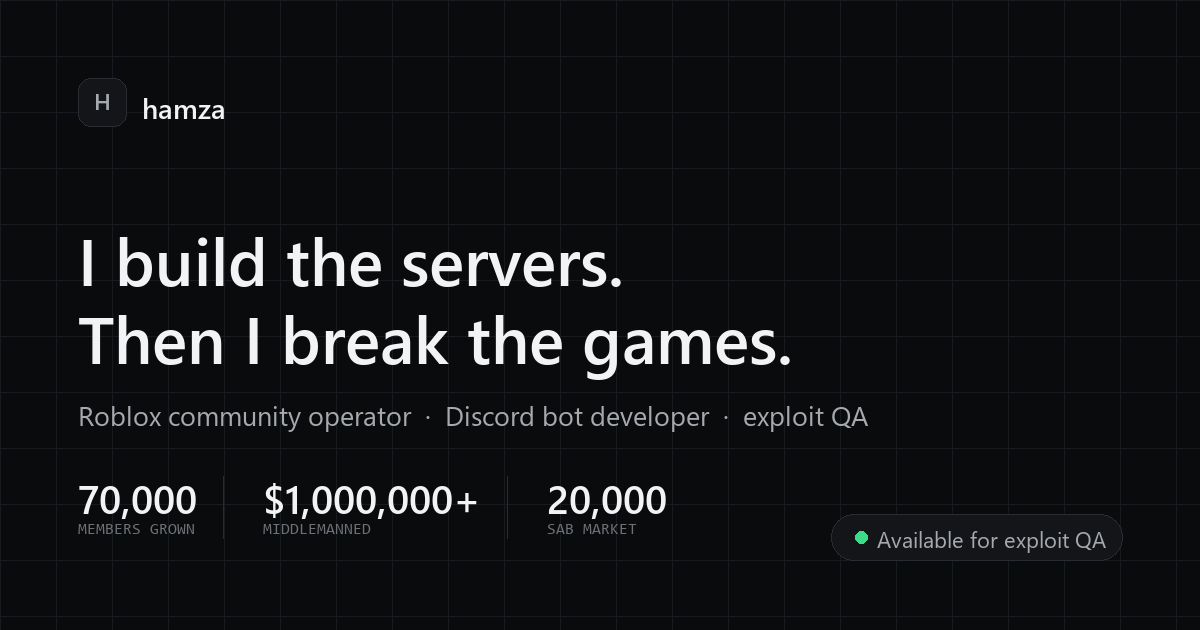
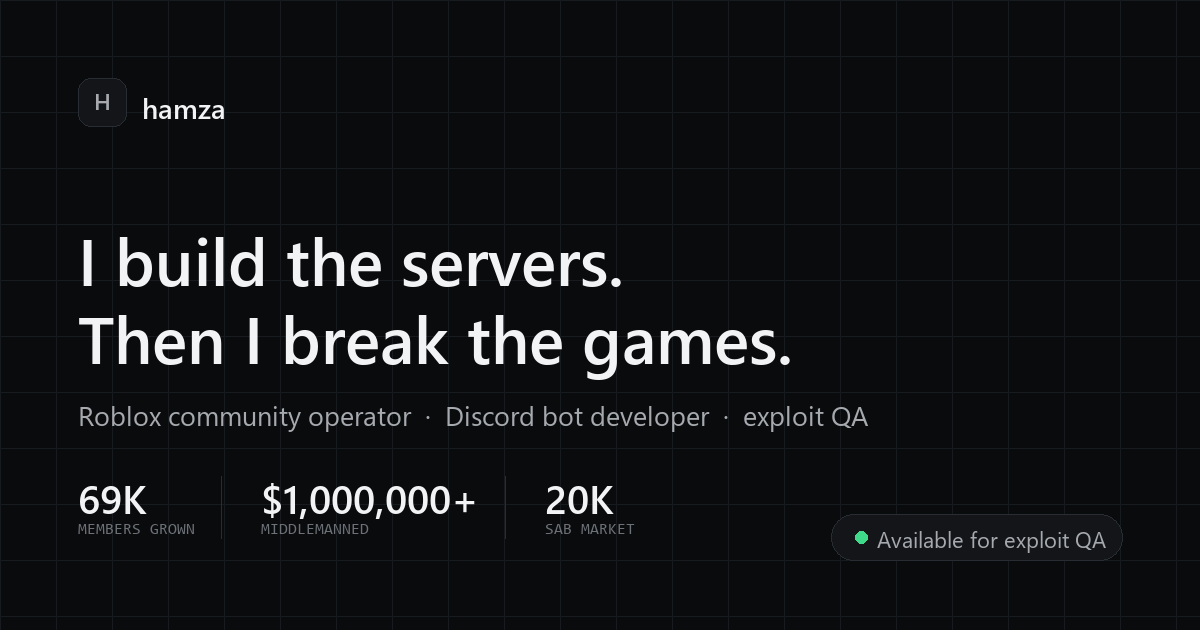
Live Discord member counts; rename to Ry's Middleman Services
Validating the invites against Discord's API showed discord.gg/sabmiddleman
resolves to "Ry's Middleman Services", not "SAB Middleman" as the page said.
Renamed so the page matches where the link actually lands.

The invite endpoint sends CORS headers, so member counts are now live in the
same way the Roblox player count is. Every figure on the page is real and
checkable. Static values stay in the HTML as the fallback.

- fetch uses no-store: Discord echoes the requesting origin in
  Access-Control-Allow-Origin instead of *, so a cached response fails CORS
  on a different origin
- countUp captured data-to before the fetch resolved and finished on the
  stale number; it now re-reads on the final frame
- applyCount writes the value even to tiles that have not scrolled into
  view, so nothing sits on a placeholder while the rest shows live data
- meta description reads "nearly 70,000" and the share card "69K", both
  durable as the count moves

Changed region(s): [[0.2158, 0.754, 0.4008, 0.8444], [0.4625, 0.754, 0.555, 0.8444], [0.0617, 0.754, 0.185, 0.8143]]

diff --git a/index.html b/index.html
@@ -4,7 +4,7 @@
 <meta charset="utf-8">
 <meta name="viewport" content="width=device-width, initial-scale=1, viewport-fit=cover">
 <title>hamza — exploit QA &amp; Roblox community operator</title>
-<meta name="description" content="Roblox community operator, Discord bot developer and exploit QA tester. Grew my own trading server to 70,000 members and middlemanned over $1,000,000 through it. Available for exploit QA on any game.">
+<meta name="description" content="Roblox community operator, Discord bot developer and exploit QA tester. Grew my own trading server to nearly 70,000 members and middlemanned over $1,000,000 through it. Available for exploit QA on any game.">
 <meta name="theme-color" content="#0A0B0D">
 <meta name="color-scheme" content="dark">
 <link rel="canonical" href="https://ohhamza.vercel.app/">
@@ -14,7 +14,7 @@
 <meta property="og:site_name" content="hamza">
 <meta property="og:url" content="https://ohhamza.vercel.app/">
 <meta property="og:title" content="hamza — exploit QA &amp; Roblox community operator">
-<meta property="og:description" content="Roblox community operator, Discord bot developer and exploit QA tester. Grew my own trading server to 70,000 members and middlemanned over $1,000,000 through it. Available for exploit QA on any game.">
+<meta property="og:description" content="Roblox community operator, Discord bot developer and exploit QA tester. Grew my own trading server to nearly 70,000 members and middlemanned over $1,000,000 through it. Available for exploit QA on any game.">
 <meta property="og:image" content="https://ohhamza.vercel.app/og.png">
 <meta property="og:image:width" content="1200">
 <meta property="og:image:height" content="630">
@@ -22,7 +22,7 @@
 
 <meta name="twitter:card" content="summary_large_image">
 <meta name="twitter:title" content="hamza — exploit QA &amp; Roblox community operator">
-<meta name="twitter:description" content="Roblox community operator, Discord bot developer and exploit QA tester. Grew my own trading server to 70,000 members and middlemanned over $1,000,000 through it. Available for exploit QA on any game.">
+<meta name="twitter:description" content="Roblox community operator, Discord bot developer and exploit QA tester. Grew my own trading server to nearly 70,000 members and middlemanned over $1,000,000 through it. Available for exploit QA on any game.">
 <meta name="twitter:image" content="https://ohhamza.vercel.app/og.png">
 <link rel="preconnect" href="https://fonts.googleapis.com">
 <link rel="preconnect" href="https://fonts.gstatic.com" crossorigin>
@@ -396,7 +396,7 @@ html.js .stg.in > *:nth-child(6){transition-delay:.35s}
       <h1 class="up" style="animation-delay:.13s">I build the servers. Then I break the games.</h1>
 
       <p class="sub up" style="animation-delay:.21s">
-        I grew my own Roblox trading server to <b>70,000 members</b> and middlemanned
+        I grew my own Roblox trading server to <b><span data-count="mm">70,000</span> members</b> and middlemanned
         <b>over $1,000,000</b> through it. I run <b>SAB Market</b> for Steal a Brainrot values,
         write my own <b>Discord bots</b>, vibecode my own tools, and I do exploit
         <b>QA</b> — on Steal A Seed right now, and taking on more games.
@@ -428,7 +428,7 @@ html.js .stg.in > *:nth-child(6){transition-delay:.35s}
           <div class="cn">Live from the Roblox API, refreshed every minute.</div>
         </div>
         <div class="cell">
-          <div class="cv num" data-to="70000" data-fmt="k">70K</div>
+          <div class="cv num" data-to="70000" data-fmt="k" data-count="mm" data-cfmt="k">70K</div>
           <div class="ck">members grown</div>
           <div class="cn">My trading server, built from an empty one.</div>
         </div>
@@ -438,7 +438,7 @@ html.js .stg.in > *:nth-child(6){transition-delay:.35s}
           <div class="cn">Player-to-player value that passed through me.</div>
         </div>
         <div class="cell">
-          <div class="cv num" data-to="20000" data-fmt="k">20K</div>
+          <div class="cv num" data-to="20000" data-fmt="k" data-count="mk" data-cfmt="k">20K</div>
           <div class="ck">sab market</div>
           <div class="cn">Steal a Brainrot values, kept current.</div>
         </div>
@@ -460,11 +460,11 @@ html.js .stg.in > *:nth-child(6){transition-delay:.35s}
       <div class="recs stg">
         <a class="rec" href="https://discord.gg/sabmiddleman" target="_blank" rel="noopener">
           <div>
-            <div class="rec-h"><h3>SAB Middleman</h3><span class="tagx">founder</span></div>
-            <p>Grew it from an empty server to 70K. The middleman desk inside it moved over $1,000,000 in player-to-player value — <code>discord.gg/sabmiddleman</code></p>
+            <div class="rec-h"><h3>Ry's Middleman Services</h3><span class="tagx">founder</span></div>
+            <p>Grew it from an empty server to <span data-count="mm" data-cfmt="k">70K</span>. The middleman desk inside it moved over $1,000,000 in player-to-player value — <code>discord.gg/sabmiddleman</code></p>
           </div>
           <div class="rec-r">
-            <div class="rec-n">70,000<span>members</span></div>
+            <div class="rec-n"><span data-count="mm">70,000</span><span>members</span></div>
             <div class="rec-go">↗</div>
           </div>
         </a>
@@ -475,7 +475,7 @@ html.js .stg.in > *:nth-child(6){transition-delay:.35s}
             <p>Steal a Brainrot values, kept current through every update — <code>discord.gg/sabvalue</code></p>
           </div>
           <div class="rec-r">
-            <div class="rec-n">20,000<span>members</span></div>
+            <div class="rec-n"><span data-count="mk">20,000</span><span>members</span></div>
             <div class="rec-go">↗</div>
           </div>
         </a>
@@ -506,7 +506,7 @@ html.js .stg.in > *:nth-child(6){transition-delay:.35s}
         <div class="card">
           <div class="ic">01</div>
           <h3>Community growth</h3>
-          <p>Zero to 70,000 on my own server, plus the structure that keeps a community that size alive.</p>
+          <p>Zero to <span data-count="mm">70,000</span> on my own server, plus the structure that keeps a community that size alive.</p>
         </div>
         <div class="card">
           <div class="ic">02</div>
@@ -583,7 +583,7 @@ html.js .stg.in > *:nth-child(6){transition-delay:.35s}
       <div class="f-col">
         <h4>Communities</h4>
         <ul>
-          <li><a href="https://discord.gg/sabmiddleman" target="_blank" rel="noopener">SAB Middleman</a></li>
+          <li><a href="https://discord.gg/sabmiddleman" target="_blank" rel="noopener">Ry's Middleman Services</a></li>
           <li><a href="https://discord.gg/sabvalue" target="_blank" rel="noopener">SAB Market</a></li>
         </ul>
       </div>
@@ -630,12 +630,49 @@ html.js .stg.in > *:nth-child(6){transition-delay:.35s}
   addEventListener('scroll', onScroll, {passive:true});
 
   /* ═══ marquee ═══ */
-  var feed = ['70,000 members grown','$1,000,000+ middlemanned','SAB Market — 20,000',
-              'Discord bot developer','Exploit QA — Steal A Seed','Vibecoder','Trusted middleman',
-              'Steal a Brainrot values','Available for exploit QA','discord.gg/sabmiddleman',
-              'discord.gg/sabvalue','@ohhamza'];
-  var mh = feed.map(function(t){ return '<span>' + t + '</span>'; }).join('');
-  $('#run').innerHTML = mh + mh;
+  var counts = {mm: 70000, mk: 20000};   // replaced by the live figures below
+  function buildMarquee(){
+    var feed = [comma(counts.mm) + ' members grown', '$1,000,000+ middlemanned',
+                'SAB Market — ' + comma(counts.mk),
+                'Discord bot developer','Exploit QA — Steal A Seed','Vibecoder','Trusted middleman',
+                'Steal a Brainrot values','Available for exploit QA','discord.gg/sabmiddleman',
+                'discord.gg/sabvalue','@ohhamza'];
+    var mh = feed.map(function(t){ return '<span>' + t + '</span>'; }).join('');
+    $('#run').innerHTML = mh + mh;
+  }
+  buildMarquee();
+
+  /* ═══ live Discord member counts ═══
+     discord.com/api/v10/invites/<code>?with_counts=true sends CORS headers, so the
+     browser can read it directly — no token, no proxy. On any failure the figures
+     already written into the HTML stand, so the page is never blank or wrong. */
+  var INVITES = {mm: 'sabmiddleman', mk: 'sabvalue'};
+  function applyCount(key, n){
+    counts[key] = n;
+    $$('[data-count="' + key + '"]').forEach(function(el){
+      var txt = el.dataset.cfmt === 'k' ? Math.round(n / 1000) + 'K' : comma(n);
+      el.dataset.to = n;    // a count-up that runs later reads this and lands on the real figure
+      // write it regardless: otherwise a tile that hasn't scrolled into view yet sits on the
+      // static placeholder while the rest of the page already shows the live number
+      el.textContent = txt;
+    });
+    buildMarquee();
+  }
+  function pullDiscord(){
+    if (!('fetch' in window)) return;
+    Object.keys(INVITES).forEach(function(k){
+      // no-store: Discord echoes the requesting origin back in Access-Control-Allow-Origin
+      // rather than sending *, so a cached response can fail CORS on a different origin
+      fetch('https://discord.com/api/v10/invites/' + INVITES[k] + '?with_counts=true',
+            {cache: 'no-store'})
+        .then(function(r){ if (!r.ok) throw 0; return r.json(); })
+        .then(function(j){
+          if (typeof j.approximate_member_count === 'number') applyCount(k, j.approximate_member_count);
+        })
+        .catch(function(){ /* keep whatever the HTML already says */ });
+    });
+  }
+  pullDiscord();
 
   /* ═══ word-by-word heading reveal ═══ */
   function splitWords(el){
@@ -817,7 +854,13 @@ html.js .stg.in > *:nth-child(6){transition-delay:.35s}
       if (t0 === null) t0 = t;
       var p = Math.min((t - t0) / dur, 1), e = 1 - Math.pow(1 - p, 3);
       el.textContent = fmt(to * e, kind);
-      if (p < 1) requestAnimationFrame(step); else el.textContent = fmt(to, kind);
+      if (p < 1) requestAnimationFrame(step);
+      else {
+        // re-read: a live count may have landed while this was animating,
+        // and `to` was captured before it arrived
+        el.textContent = fmt(parseFloat(el.dataset.to) || to, kind);
+        el.dataset.counted = '1';
+      }
     }
     requestAnimationFrame(step);
   }
